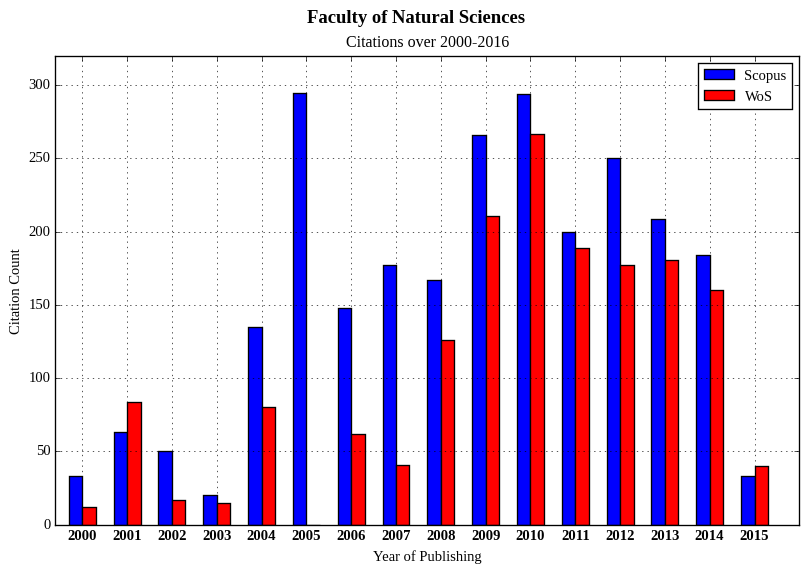
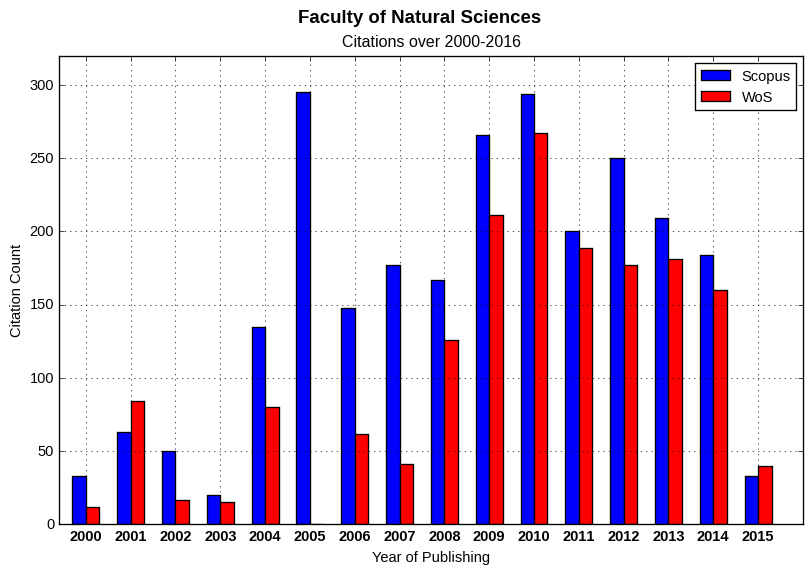
Switch to Liberation Sans font
Originally I was keeping Liberation Serif font because it will just look
better in the printed form; however, it seems that even Springer
recommends Sans Serif fonts for plots and diagrams in order to maintain
text readability when the image is being scaled down.  Therefore I am
giving up and switching to Liberation Sans font, the original default.
Although I still think that Liberation Serif looks nicer in the printed
form, I have to admit that example plot in 'README.md' looks far more
cool now.

diff --git a/scientometry-plot-gen.py b/scientometry-plot-gen.py
@@ -107,7 +107,7 @@ class Plot:
 
     def render(self):
 
-        rc('font', family='Liberation Serif')
+        rc('font', family='Liberation Sans')
 
         fig = plt.figure(figsize=self.metadata.figsize)
 
